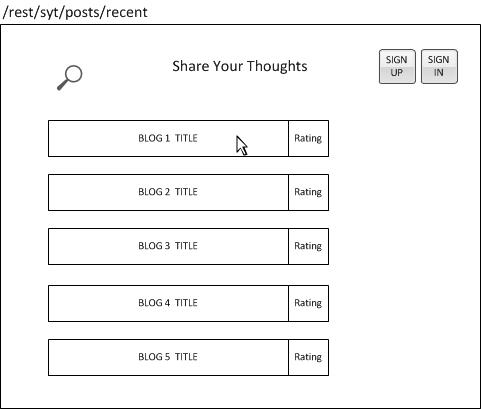
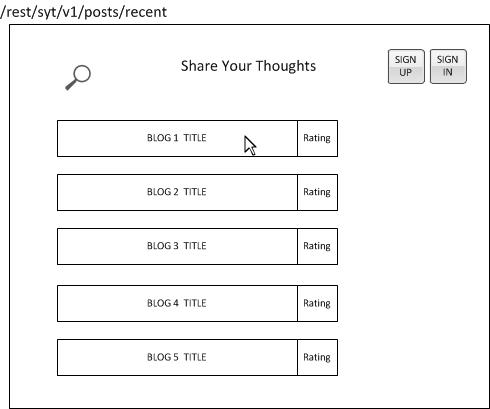
Added versioning in REST APIs

diff --git a/README.md b/README.md
@@ -5,18 +5,18 @@ REST APIs
 
 | Title                           	| URL                                           	| Method 	| Response Code                                               	| Params / Data                                                                           	|
 |---------------------------------	|-----------------------------------------------	|--------	|---------------------------------------------------------	|-----------------------------------------------------------------------------------------	|
-| List all posts for visitor      	| /rest/syt/posts?sort=-ModifiedTime                                    	| GET    	| 200 OK <br>404 Not found                                    	|                                                                                         	|
-| Search post                     	| /rest/syt/posts?title={text}                	| GET    	| 200 OK <br>404 Not found                                     	| searchByTitle : all the available blog title would be matched against the provided text 	|
-| Register new user               	| /rest/syt/users                                	| POST   	| 201 Created<br>403 Forbidden<br>400 Bad request                 	| {email, Name,password}                                                                  	|
-| Sign In                         	| /rest/syt/users                                	| POST   	| 200 OK<br>401 Unauthorized<br>400 Bad request<br>404 Not found      	| {email,password}                                                                        	|
-| List all blogs by given user    	| /rest/syt/users/{userid}/posts?sort=-ModifiedTime                       	| GET    	| 200 OK<br>404 Not found                                     	|                                                                                         	|
-| Sign Out                        	| /rest/syt/users/{userid}                       	| POST   	| 200 OK<br>404 Unauthorized<br>404 Not found                     	| {action: logout}                                                                        	|
-| Post new post                   	| /rest/syt/users/{userid}/posts                 	| POST   	| 201 Created<br>400 Bad request<br>401 Unauthorized              	| {Title,content}                                                                         	|
-| View post                       	| /rest/syt/users/{userid}/posts/{postid}         	| GET    	| 200 O<br>K404 Not found                                     	|                                                                                         	|
-| Edit post                       	| /rest/syt/users/{userid}/posts/{postid}         	| PUT    	| 200 OK<br>400 Bad Request<br>401 Unauthorized<br>404 Not found      	| {new content}                                                                           	|
-| All comments for post           	| /rest/syt/users/{userid}/posts/{postid}/comments 	| GET    	| 200 OK<br>404 Not found                                     	|                                                                                         	|
-| Post new comment                	| /rest/syt/users/{userid}/posts/{postid}/comments 	| POST   	| 201 Created<br>401 Unauthorized<br>400 Bad request<br>404 Not found 	| {commenting_user,comment_text}                                                          	|
-| Get rating for post             	| /rest/syt/users/{userid}/posts/{postid}/ratings  	| GET    	| 200 OK<br>404 Not found                                     	|                                                                                         	|
-| Post / Update rating for a post 	| /rest/syt/users/{userid}/posts/{postid}/ratings  	| POST   	| 201 Created<br>401 Unauthorized<br>400 Bad request<br>404 Not found 	| {rating: <1 .. 5>}                                                                      	|
+| List all posts for visitor      	| /rest/syt/v1/posts?sort=-ModifiedTime                                    	| GET    	| 200 OK <br>404 Not found                                    	|                                                                                         	|
+| Search post                     	| /rest/syt/v1/posts?title={text}                	| GET    	| 200 OK <br>404 Not found                                     	| searchByTitle : all the available blog title would be matched against the provided text 	|
+| Register new user               	| /rest/syt/v1/users                                	| POST   	| 201 Created<br>403 Forbidden<br>400 Bad request                 	| {email, Name,password}                                                                  	|
+| Sign In                         	| /rest/syt/v1/users                                	| POST   	| 200 OK<br>401 Unauthorized<br>400 Bad request<br>404 Not found      	| {email,password}                                                                        	|
+| List all blogs by given user    	| /rest/syt/v1/users/{userid}/posts?sort=-ModifiedTime                       	| GET    	| 200 OK<br>404 Not found                                     	|                                                                                         	|
+| Sign Out                        	| /rest/syt/v1/users/{userid}                       	| POST   	| 200 OK<br>404 Unauthorized<br>404 Not found                     	| {action: logout}                                                                        	|
+| Post new post                   	| /rest/syt/v1/users/{userid}/posts                 	| POST   	| 201 Created<br>400 Bad request<br>401 Unauthorized              	| {Title,content}                                                                         	|
+| View post                       	| /rest/syt/v1/users/{userid}/posts/{postid}         	| GET    	| 200 O<br>K404 Not found                                     	|                                                                                         	|
+| Edit post                       	| /rest/syt/v1/users/{userid}/posts/{postid}         	| PUT    	| 200 OK<br>400 Bad Request<br>401 Unauthorized<br>404 Not found      	| {new content}                                                                           	|
+| All comments for post           	| /rest/syt/v1/users/{userid}/posts/{postid}/comments 	| GET    	| 200 OK<br>404 Not found                                     	|                                                                                         	|
+| Post new comment                	| /rest/syt/v1/users/{userid}/posts/{postid}/comments 	| POST   	| 201 Created<br>401 Unauthorized<br>400 Bad request<br>404 Not found 	| {commenting_user,comment_text}                                                          	|
+| Get rating for post             	| /rest/syt/v1/users/{userid}/posts/{postid}/ratings  	| GET    	| 200 OK<br>404 Not found                                     	|                                                                                         	|
+| Post / Update rating for a post 	| /rest/syt/v1/users/{userid}/posts/{postid}/ratings  	| POST   	| 201 Created<br>401 Unauthorized<br>400 Bad request<br>404 Not found 	| {rating: <1 .. 5>}                                                                      	|
 
 Note: All the 201 Created reponse are accompanied by new created resource location. 
